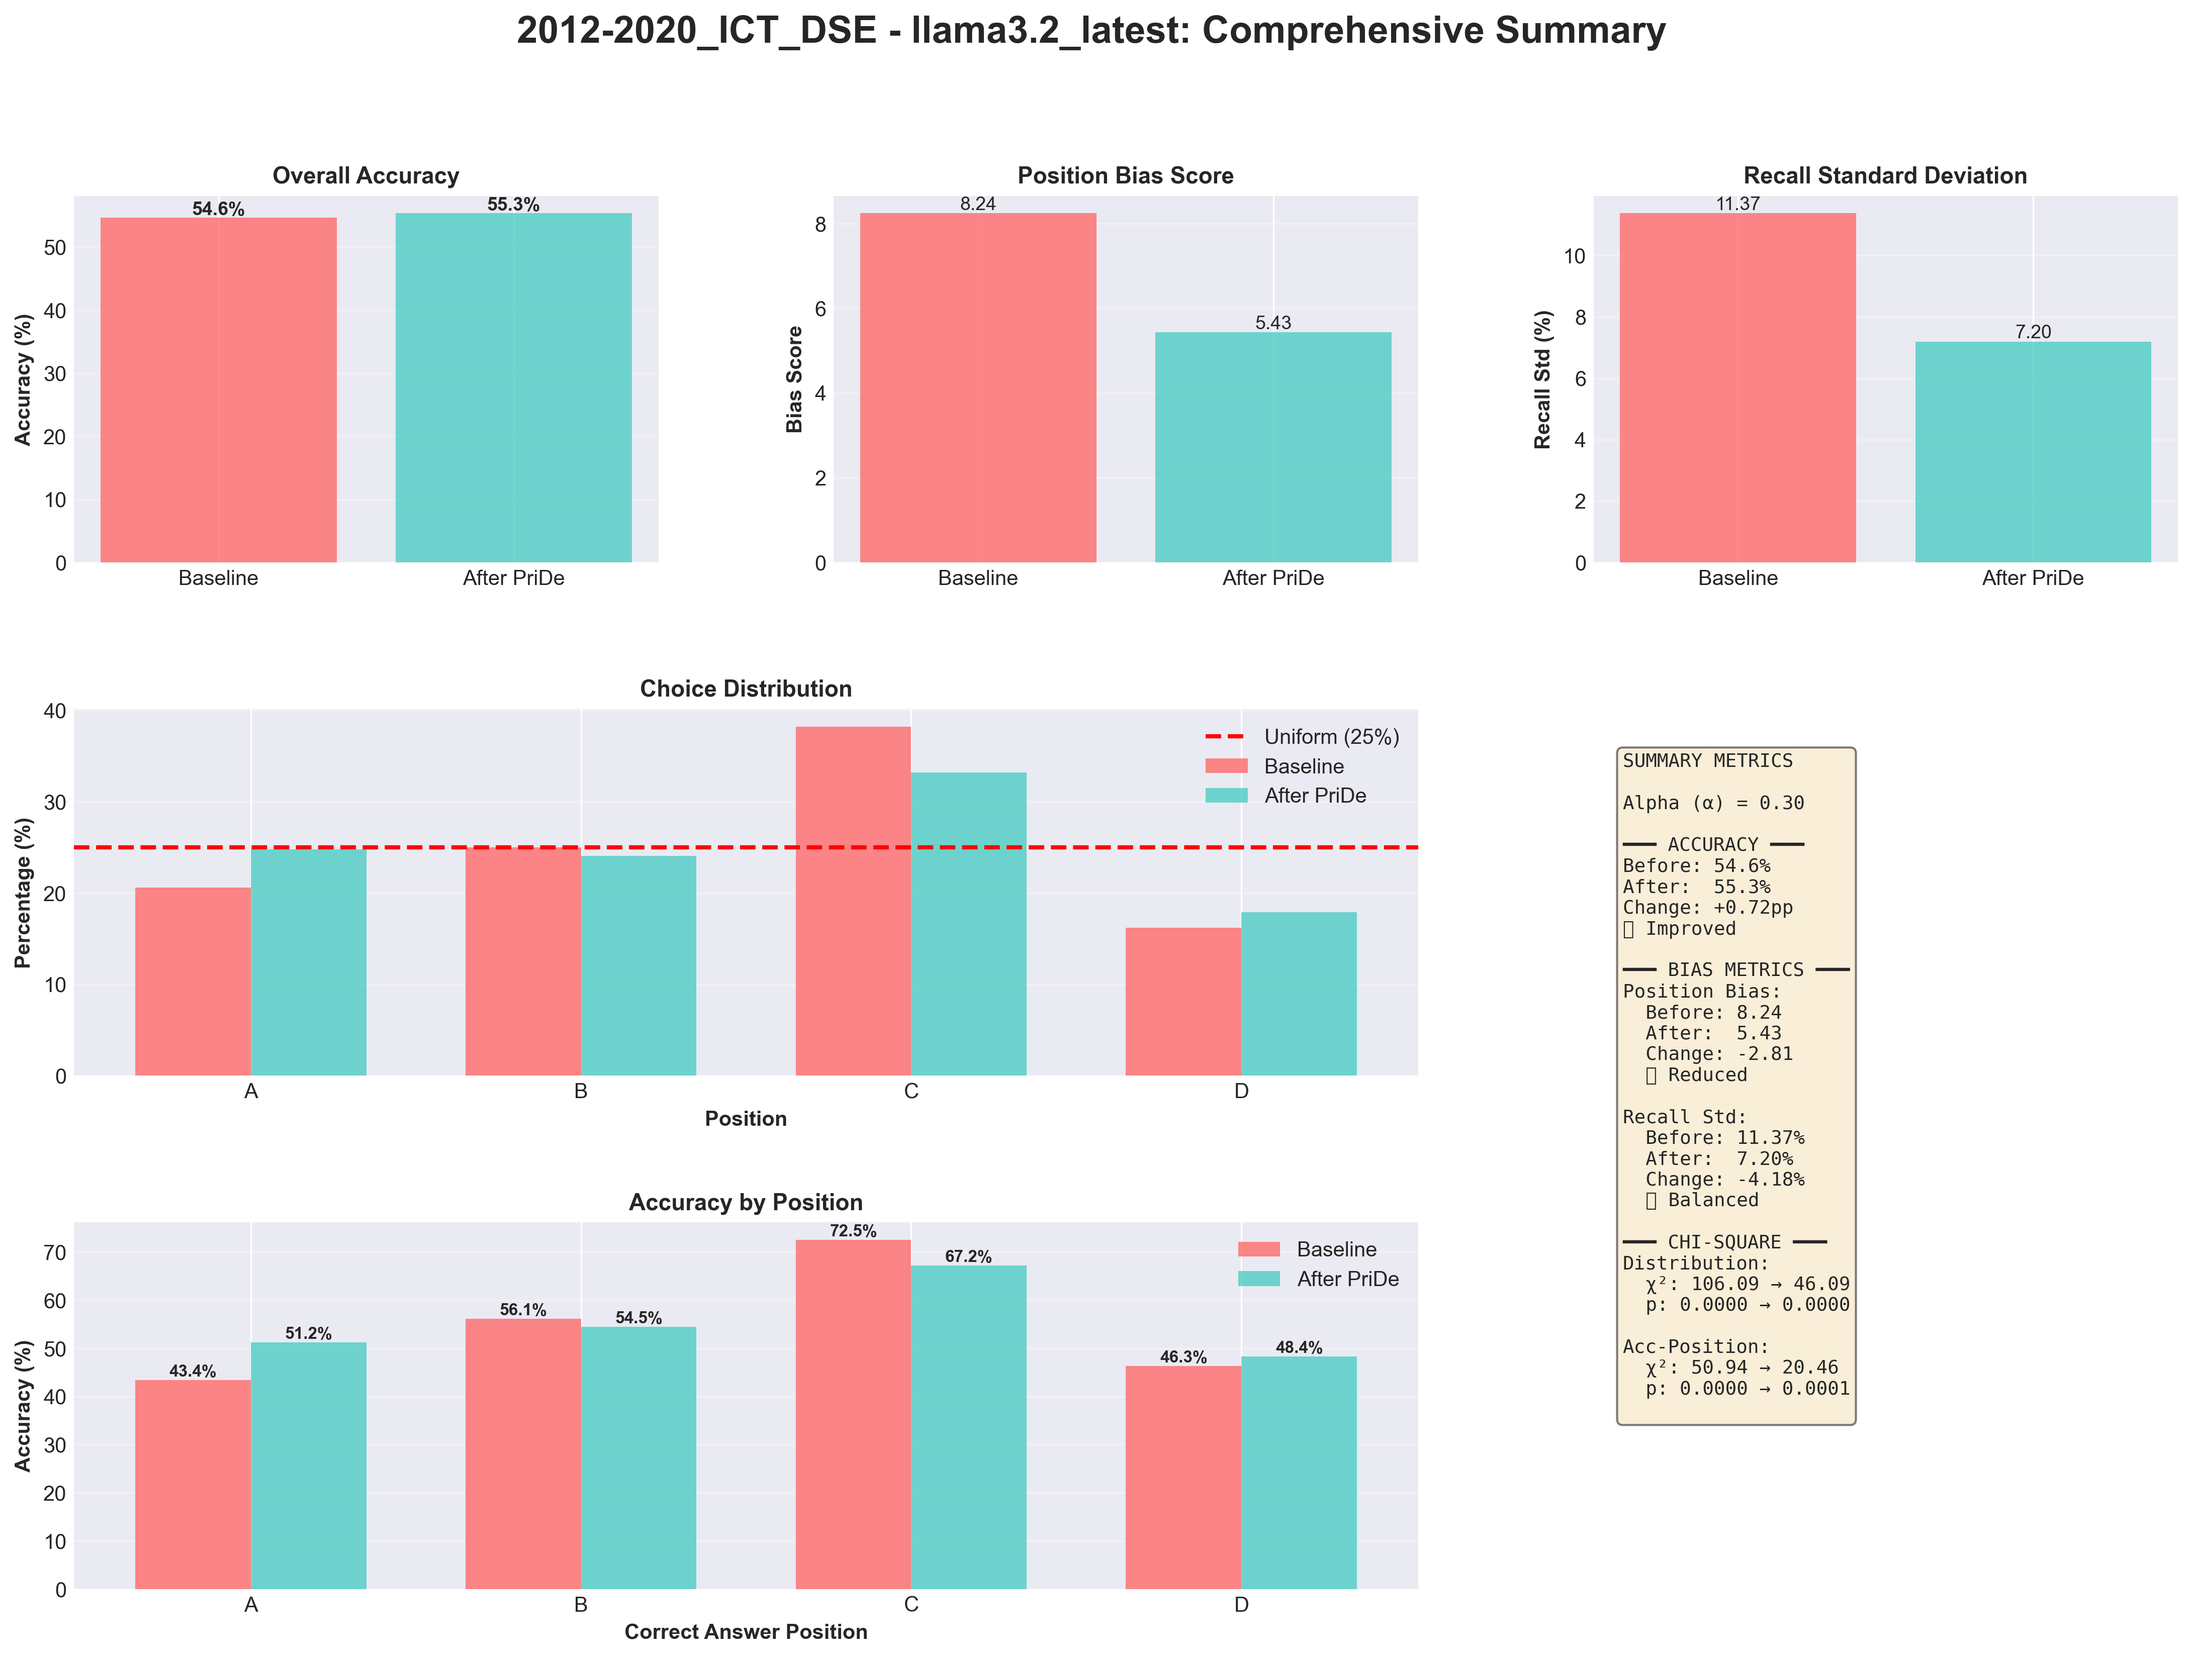
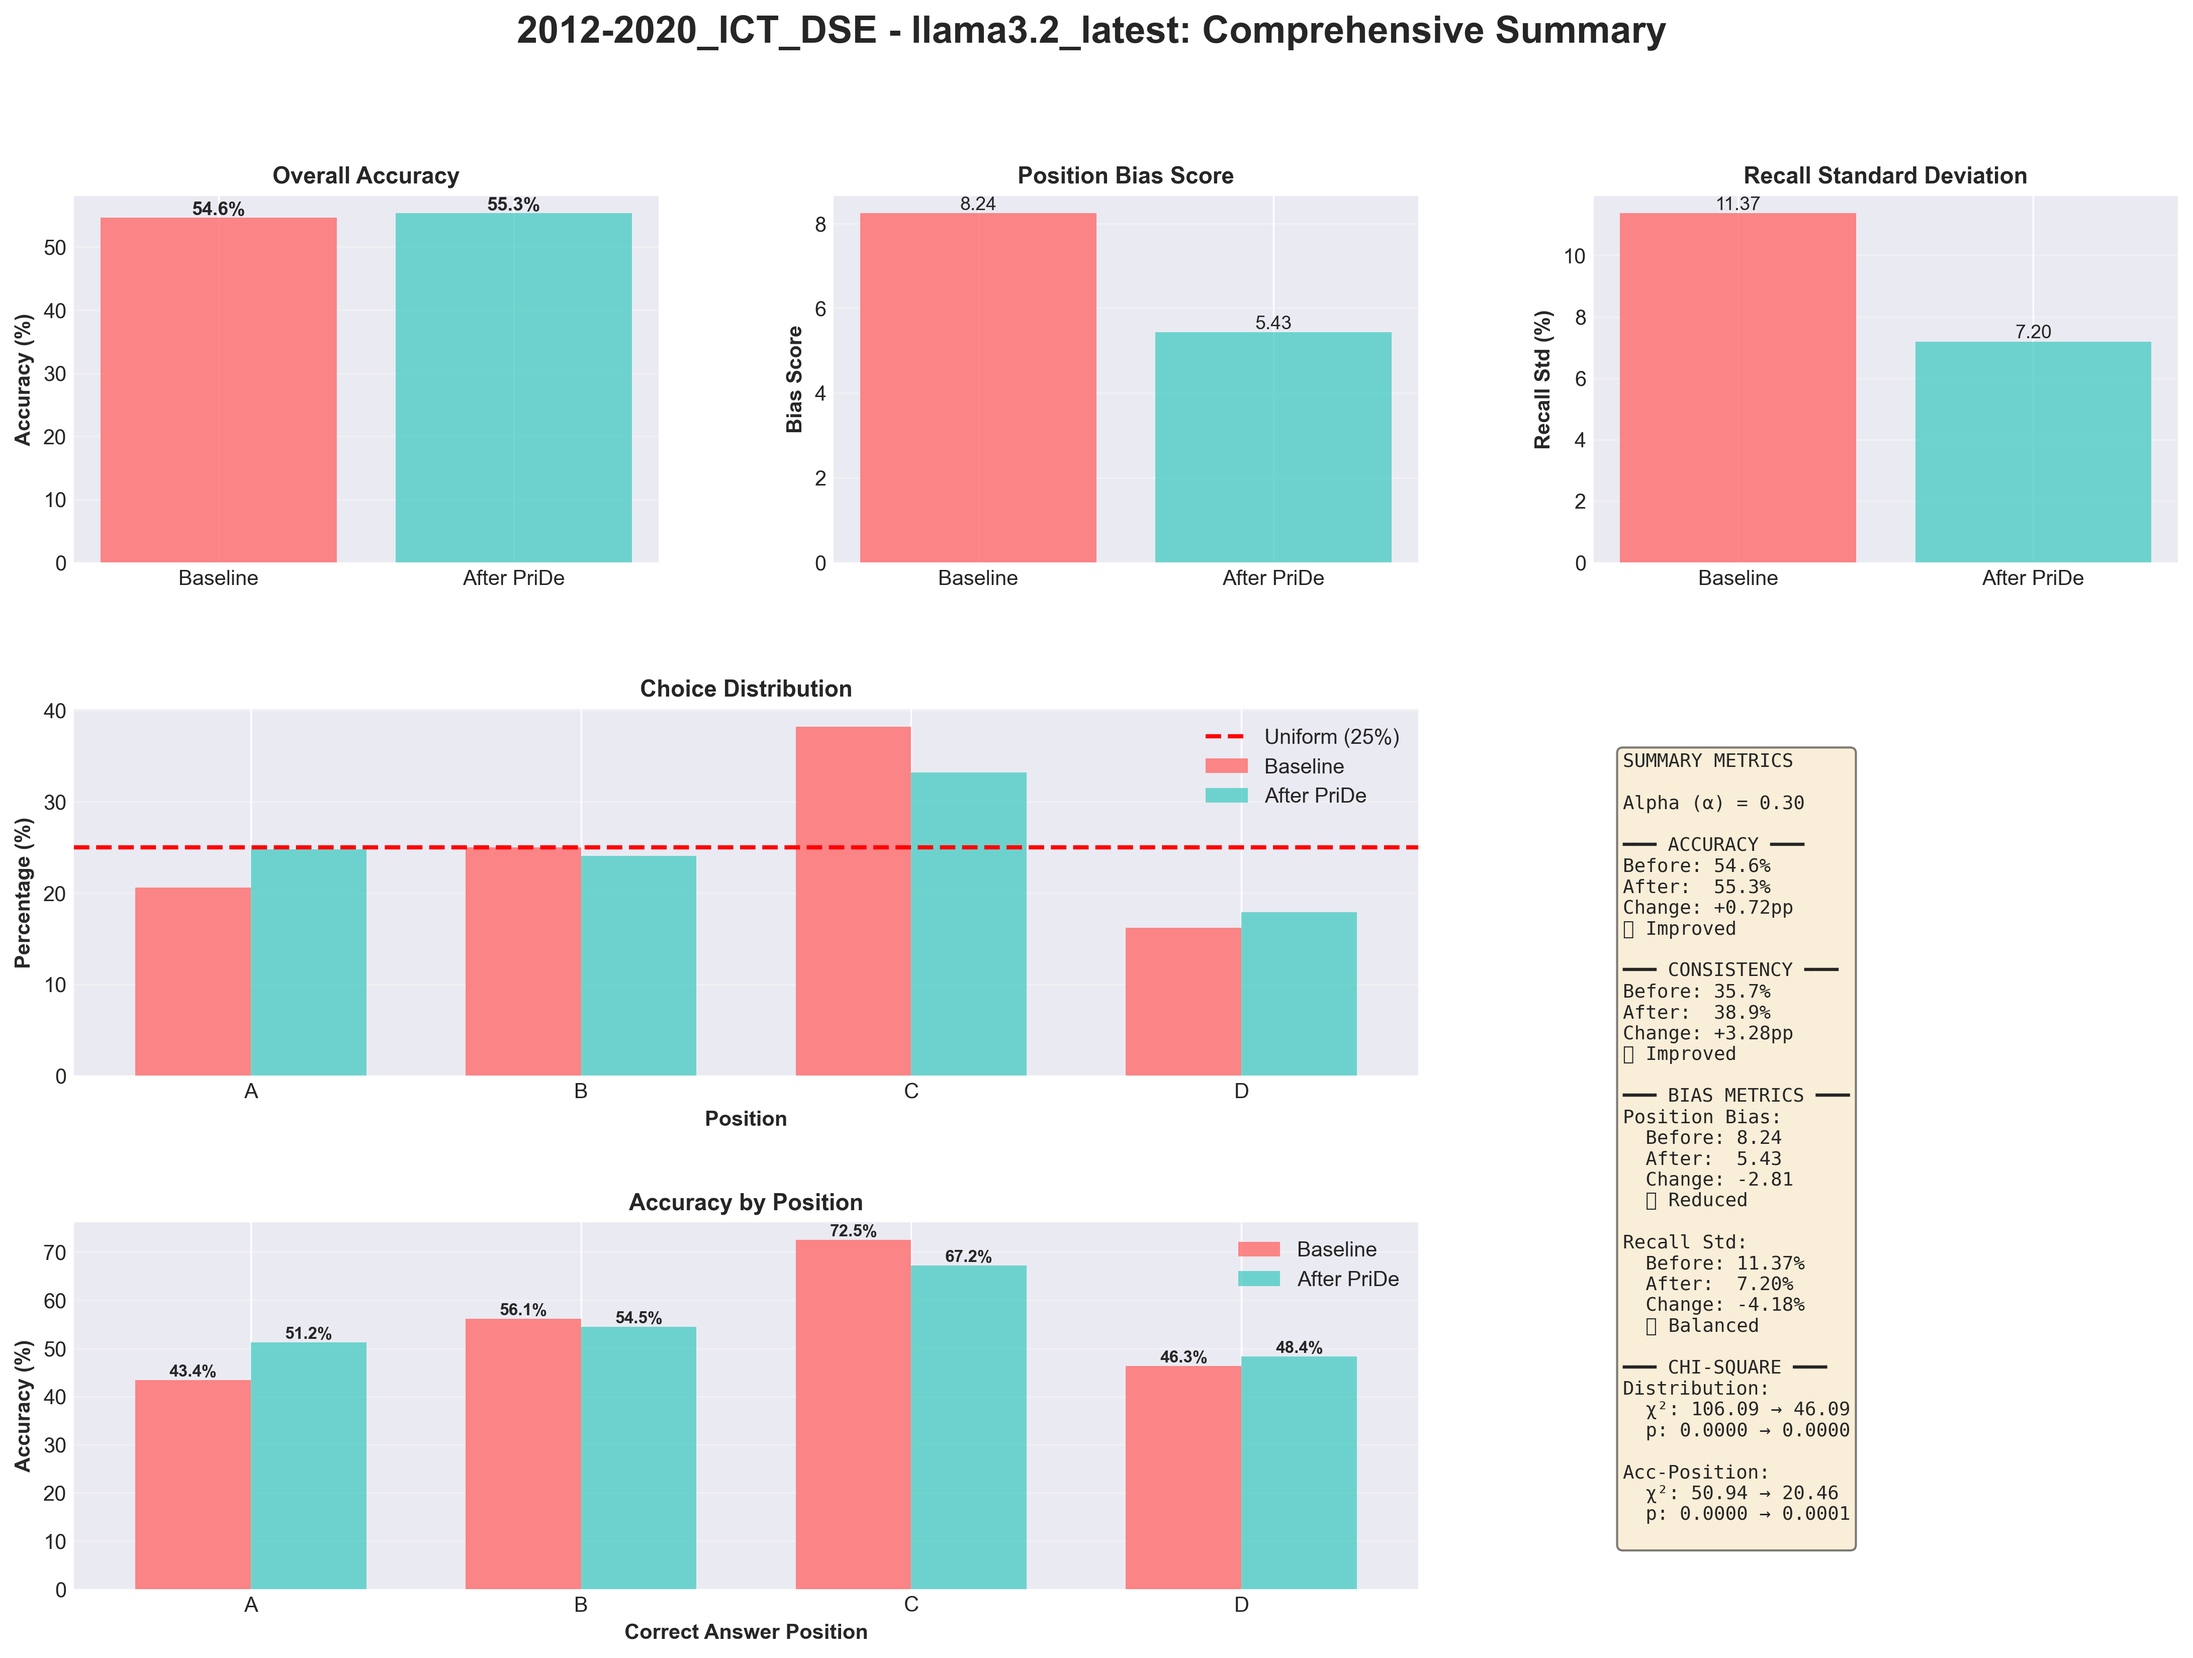
added new test results visual

Changed region(s): [[0.7171, 0.562, 0.873, 0.9366]]

diff --git a/pride_batch_summary.py b/pride_batch_summary.py
@@ -197,6 +197,46 @@ def compute_bias_metrics(df: pd.DataFrame, prediction_col: str = 'predicted_answ
         chi2_acc, p_acc, _, _ = chi2_contingency(contingency_table)
     except:
         chi2_acc, p_acc = 0, 1
+
+    # --- Consistency Score ---
+    # Calculate the percentage of questions where the model chooses the same *content* across all permutations.
+    def get_original_choice(row):
+        try:
+            perm_idx = int(row['permutation_idx'])
+            pred = str(row[prediction_col]).strip().upper()
+            if pred not in ['A', 'B', 'C', 'D']:
+                return None
+            
+            letter_map = {'A': 0, 'B': 1, 'C': 2, 'D': 3}
+            reverse_map = {0: 'A', 1: 'B', 2: 'C', 3: 'D'}
+            
+            pred_idx = letter_map[pred]
+            shift = perm_idx % 4
+            
+            # cyclic_items[i] corresponds to original_items[(shift + i) % 4]
+            orig_idx = (shift + pred_idx) % 4
+            return reverse_map[orig_idx]
+        except (ValueError, KeyError, TypeError):
+            return None
+
+    # Use question_id if available, otherwise try id
+    id_col = 'question_id' if 'question_id' in valid_responses.columns else 'id'
+    
+    if id_col in valid_responses.columns and 'permutation_idx' in valid_responses.columns:
+        valid_responses['original_choice'] = valid_responses.apply(get_original_choice, axis=1)
+        
+        # Group by question ID and count unique original choices
+        valid_consistency_df = valid_responses.dropna(subset=['original_choice'])
+        
+        if not valid_consistency_df.empty:
+            consistency_counts = valid_consistency_df.groupby(id_col)['original_choice'].nunique()
+            consistent_questions = (consistency_counts == 1).sum()
+            total_unique_questions = len(consistency_counts)
+            consistency_score = (consistent_questions / total_unique_questions * 100) if total_unique_questions > 0 else 0.0
+        else:
+            consistency_score = 0.0
+    else:
+        consistency_score = 0.0
     
     return {
         'choice_counts': choice_counts.to_dict(),
@@ -210,7 +250,8 @@ def compute_bias_metrics(df: pd.DataFrame, prediction_col: str = 'predicted_answ
         'overall_accuracy': overall_accuracy,
         'chi2_acc_stat': chi2_acc,
         'chi2_acc_pvalue': p_acc,
-        'n_samples': total_valid
+        'n_samples': total_valid,
+        'consistency_score': consistency_score
     }
 
 
@@ -890,6 +931,7 @@ def plot_individual_summary(dataset: str, model: str, model_data: Dict, output_p
     acc_change = debiased['overall_accuracy'] - baseline['overall_accuracy']
     bias_change = debiased['position_bias_score'] - baseline['position_bias_score']
     rstd_change = debiased['recall_std'] - baseline['recall_std']
+    cons_change = debiased.get('consistency_score', 0) - baseline.get('consistency_score', 0)
     
     summary_text = f"""SUMMARY METRICS
 
@@ -900,6 +942,12 @@ Before: {baseline['overall_accuracy']*100:.1f}%
 After:  {debiased['overall_accuracy']*100:.1f}%
 Change: {acc_change*100:+.2f}pp
 {'✅ Improved' if acc_change > 0 else '⚠  Decreased'}
+
+━━━ CONSISTENCY ━━━
+Before: {baseline.get('consistency_score', 0):.1f}%
+After:  {debiased.get('consistency_score', 0):.1f}%
+Change: {cons_change:+.2f}pp
+{'✅ Improved' if cons_change > 0 else '⚠  Decreased'}
 
 ━━━ BIAS METRICS ━━━
 Position Bias:
@@ -928,6 +976,73 @@ Acc-Position:
             family='monospace', bbox=dict(boxstyle='round', facecolor='wheat', alpha=0.5),
             transform=ax6.transAxes)
     
+    plt.savefig(output_path, dpi=300, bbox_inches='tight')
+    plt.close()
+
+
+# ============================================================================
+# VISUALIZATION FUNCTIONS: CONSISTENCY SCORE
+# ============================================================================
+
+def plot_dataset_consistency_comparison(dataset: str, models_data: Dict, output_path: Path):
+    """Compare consistency score across all models for a dataset."""
+    fig, (ax1, ax2) = plt.subplots(1, 2, figsize=(16, 6))
+    
+    # Sort models using custom order
+    models = sort_models_custom(models_data.keys())
+    baseline_cons = [models_data[m]['baseline'].get('consistency_score', 0) for m in models]
+    debiased_cons = [models_data[m]['debiased'].get('consistency_score', 0) for m in models]
+    improvements = [d - b for b, d in zip(baseline_cons, debiased_cons)]
+    
+    x = np.arange(len(models))
+    width = 0.35
+    
+    # Left: Baseline vs Debiased
+    bars1 = ax1.bar(x - width/2, baseline_cons, width, label='Baseline', color='#FF6B6B', alpha=0.8)
+    bars2 = ax1.bar(x + width/2, debiased_cons, width, label='After PriDe', color='#4ECDC4', alpha=0.8)
+    
+    ax1.set_xlabel('Model', fontsize=12, fontweight='bold')
+    ax1.set_ylabel('Consistency Score (%)', fontsize=12, fontweight='bold')
+    ax1.set_title(f'{dataset}: Consistency Comparison', fontsize=14, fontweight='bold')
+    ax1.set_xticks(x)
+    ax1.set_xticklabels(models, rotation=45, ha='right', fontsize=8)
+    ax1.legend()
+    ax1.grid(axis='y', alpha=0.3)
+    
+    # Add value labels (as percentages)
+    for bar in bars1:
+        height = bar.get_height()
+        ax1.text(bar.get_x() + bar.get_width()/2., height,
+                f'{height:.1f}%', ha='center', va='bottom', fontsize=7, fontweight='bold')
+    for bar in bars2:
+        height = bar.get_height()
+        ax1.text(bar.get_x() + bar.get_width()/2., height,
+                f'{height:.1f}%', ha='center', va='bottom', fontsize=7, fontweight='bold')
+    
+    # Right: Improvements (custom order)
+    models_by_improvement = sort_models_custom(models_data.keys())
+    improvements_sorted = [models_data[m]['debiased'].get('consistency_score', 0) - 
+                          models_data[m]['baseline'].get('consistency_score', 0) 
+                          for m in models_by_improvement]
+    
+    colors = ['green' if imp > 0 else 'red' for imp in improvements_sorted]
+    bars3 = ax2.bar(range(len(models_by_improvement)), improvements_sorted, color=colors, alpha=0.7)
+    ax2.axhline(y=0, color='black', linestyle='-', linewidth=1)
+    ax2.set_xlabel('Model', fontsize=12, fontweight='bold')
+    ax2.set_ylabel('Consistency Improvement (percentage points)', fontsize=12, fontweight='bold')
+    ax2.set_title(f'{dataset}: Consistency Improvement', fontsize=14, fontweight='bold')
+    ax2.set_xticks(range(len(models_by_improvement)))
+    ax2.set_xticklabels(models_by_improvement, rotation=45, ha='right', fontsize=8)
+    ax2.grid(axis='y', alpha=0.3)
+    
+    # Add value labels (as percentage points)
+    for bar in bars3:
+        height = bar.get_height()
+        va = 'bottom' if height >= 0 else 'top'
+        ax2.text(bar.get_x() + bar.get_width()/2., height,
+                f'{height:+.2f}pp', ha='center', va=va, fontsize=7, fontweight='bold')
+    
+    plt.tight_layout()
     plt.savefig(output_path, dpi=300, bbox_inches='tight')
     plt.close()
 
@@ -986,6 +1101,10 @@ def main():
         print(f"    - Accuracy by position...")
         plot_dataset_accuracy_by_position(dataset, models_data,
                                          dataset_dir / f"{dataset}_accuracy_by_position.png")
+        
+        print(f"    - Consistency comparison...")
+        plot_dataset_consistency_comparison(dataset, models_data,
+                                           dataset_dir / f"{dataset}_consistency_comparison.png")
     
     # Generate visualizations BY MODEL-DATASET
     print("\n📊 Generating BY MODEL-DATASET individual plots...")
@@ -1025,8 +1144,8 @@ def main():
             f.write(f"DATASET: {dataset}\n")
             f.write(f"{'='*80}\n\n")
             
-            f.write(f"{'Model':<35} {'α':<6} {'Acc (B→D)':<25} {'Bias (B→D)':<20} {'RStd (B→D)':<20}\n")
-            f.write("-" * 80 + "\n")
+            f.write(f"{'Model':<35} {'α':<6} {'Acc (B→D)':<20} {'Cons (B→D)':<20} {'Bias (B→D)':<15} {'RStd (B→D)':<15}\n")
+            f.write("-" * 115 + "\n")
             
             for model, model_data in sorted(models_data.items()):
                 baseline = model_data['baseline']
@@ -1034,10 +1153,11 @@ def main():
                 alpha = model_data['best_alpha']
                 
                 acc_str = f"{baseline['overall_accuracy']*100:.1f}%→{debiased['overall_accuracy']*100:.1f}%"
+                cons_str = f"{baseline.get('consistency_score', 0):.1f}%→{debiased.get('consistency_score', 0):.1f}%"
                 bias_str = f"{baseline['position_bias_score']:.2f}→{debiased['position_bias_score']:.2f}"
                 rstd_str = f"{baseline['recall_std']:.2f}→{debiased['recall_std']:.2f}"
                 
-                f.write(f"{model:<35} {alpha:<6.2f} {acc_str:<25} {bias_str:<20} {rstd_str:<20}\n")
+                f.write(f"{model:<35} {alpha:<6.2f} {acc_str:<20} {cons_str:<20} {bias_str:<15} {rstd_str:<15}\n")
     
     print(f"\n✅ Summary report saved: {report_path}")
     

diff --git a/batch_stat_analysis.py b/batch_stat_analysis.py
@@ -106,11 +106,55 @@ def analyze_csv(csv_path: Path) -> dict:
     for pos in ['A', 'B', 'C', 'D']:
         accuracy_by_position.setdefault(pos, 0.0)
 
+    # --- Consistency Score ---
+    # Calculate the percentage of questions where the model chooses the same *content* across all permutations.
+    # We map the predicted letter back to the original option index using the permutation logic.
+    def get_original_choice(row):
+        try:
+            perm_idx = int(row['permutation_idx'])
+            pred = str(row['predicted_answer']).strip().upper()
+            if pred not in ['A', 'B', 'C', 'D']:
+                return None
+            
+            letter_map = {'A': 0, 'B': 1, 'C': 2, 'D': 3}
+            reverse_map = {0: 'A', 1: 'B', 2: 'C', 3: 'D'}
+            
+            pred_idx = letter_map[pred]
+            shift = perm_idx % 4
+            
+            # cyclic_items[i] corresponds to original_items[(shift + i) % 4]
+            # So the predicted option at position i is the original option at (shift + i) % 4
+            orig_idx = (shift + pred_idx) % 4
+            return reverse_map[orig_idx]
+        except (ValueError, KeyError, TypeError):
+            return None
+
+    # Use question_id if available, otherwise try id
+    id_col = 'question_id' if 'question_id' in df.columns else 'id'
+    
+    if id_col in df.columns and 'permutation_idx' in df.columns:
+        df['original_choice'] = df.apply(get_original_choice, axis=1)
+        
+        # Group by question ID and count unique original choices
+        # We filter out rows where original_choice is None
+        valid_consistency_df = df.dropna(subset=['original_choice'])
+        
+        if not valid_consistency_df.empty:
+            consistency_counts = valid_consistency_df.groupby(id_col)['original_choice'].nunique()
+            consistent_questions = (consistency_counts == 1).sum()
+            total_unique_questions = len(consistency_counts)
+            consistency_score = (consistent_questions / total_unique_questions * 100) if total_unique_questions > 0 else 0.0
+        else:
+            consistency_score = 0.0
+    else:
+        consistency_score = 0.0
+
     return {
         'total_questions': total_questions, 'overall_accuracy': accuracy, 'choice_counts': choice_counts,
         'chi2_uniform': chi2_uniform, 'p_uniform': p_uniform, 'bias_score': bias_score,
         'chi2_indep': chi2_indep, 'p_indep': p_indep, 'recall_std': recall_std, 'recalls': recalls,
-        'pairwise': pairwise_results, 'corrected_alpha': corrected_alpha, 'accuracy_by_position': accuracy_by_position
+        'pairwise': pairwise_results, 'corrected_alpha': corrected_alpha, 'accuracy_by_position': accuracy_by_position,
+        'consistency_score': consistency_score
     }
 
 
@@ -150,6 +194,9 @@ def format_analysis_report(results: dict, model_name: str, dataset_name: str) ->
         f"   - p-value: {results['p_indep']:.6f}",
         "   - Degrees of freedom: 3",
         f"   - Result: {'Accuracy IS dependent on position (p < 0.05)' if results['p_indep'] < 0.05 else 'Accuracy is independent of position (p >= 0.05)'}",
+        "",
+        "CONSISTENCY SCORE:",
+        f"   - Consistency Rate: {results.get('consistency_score', 0.0):.2f}% (Questions with same content answer across permutations)",
         "",
         "RECALL STANDARD DEVIATION (RStd):",
         "   - Recall per position:",
